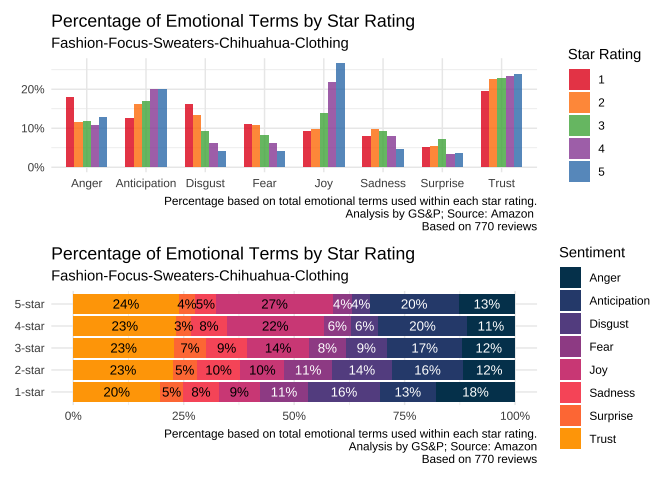
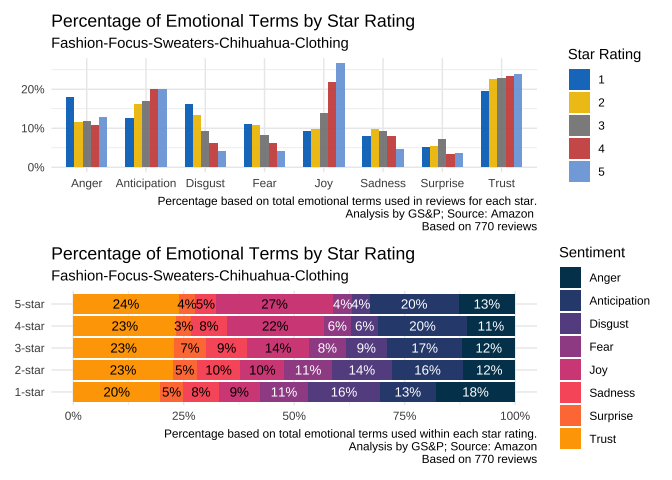
updating readme

Changed region(s): [[0.0938, 0.125, 0.7812, 0.375], [0.2188, 0.4062, 0.8125, 0.4375], [0.8438, 0.125, 0.875, 0.4062]]

diff --git a/README.md b/README.md
@@ -46,16 +46,16 @@ data <- amzn_get_reviews(url, get_images = "false") # either "true" or "false" f
 sample_n(data, 6)[,1:4] # dropping the link
 ```
 
-    #>         date stars                                         headline
-    #> 1 2022-01-03     5                                         Adorable
-    #> 2 2022-01-09     5                                         To small
-    #> 3 2022-01-30     1 Runs very small. Too small for my 18 pound puppy
-    #> 4 2021-01-29     5                So cute and cozy and fits perfect
-    #>                                                                                                                                                                                                                                                                                                          text
-    #> 1                                                                                                                                                                                                                 Adorable. Affordable. Fits perfectly. Soft, stretchy, comfy. Arrived in less than two days!
-    #> 2 The media could not be loaded.                                                                           Thought it would be a perfect size my yorkie is about 5 pounds and i got him a small but fursure needed to get a medium. But overall the sweater is really nice and good material and warm for him
-    #> 3                                                                                                                                                                                                                                                               Small & not very cozy fabric for a sweatshirt
-    #> 4                                                                                                                    Darling little sweater for my little 10lb dog. I love the hood on it. The neck is a tiny bit small but she loves it, she's warm and its a great fit. I ordered size med for my 10lb pup.
+    #>         date stars                                              headline
+    #> 1 2021-12-13     1 Not true to size it is very big way to big for my pup
+    #> 2 2020-10-24     2                                                Hoodie
+    #> 3 2022-04-17     1            Came stained and with dog hair all over it
+    #> 4 2022-01-12     1                                      Not true to size
+    #>                                                                                                                                                                                                                                                                        text
+    #> 1                                                                                                                                                                                                                                           Extremely huge sizing is wrong.
+    #> 2                                                                                                                                                    It gets those little balls one it it looks old (like a few yrs )and I have only have had it no more then 4 to 6 weeks.
+    #> 3 Ordered this dog sweatshirt and opened it up to find stains on one side and someone else’s dog or cat hair all over the other side (hopefully the animal did not have fleas!) . Super disappointed as this was supposed to be new. I would not recommend purchasing this.
+    #> 4                                                                                                                                                                                                                          I got a large and it’s still to small for my sog
 
 ### Most frequent terms
 
@@ -171,16 +171,32 @@ reviews compared to 1 star?
 
 ``` r
 library(patchwork)
-emotion <- text_to_emotion(sample_reviews)
+emotion_star <- text_to_emotion(sample_reviews, "stars")
 #> Joining, by = "word"
 #> Joining, by = "word"
 # emotion$data
-p1 <-emotion$graph1
-p2 <- emotion$graph2
+p1 <-emotion_star$graph1
+p2 <- emotion_star$graph2
 p1 / p2
 ```
 
 <img src="man/figures/README-emotion-1.png" width="80%" style="display: block; margin: auto;" />
+
+The emotional valence of reviews can also be split out by the year of
+the review.
+
+``` r
+library(patchwork)
+emotion_year <- text_to_emotion(sample_reviews, "year")
+#> Joining, by = "word"
+#> Joining, by = "word"
+# emotion$data
+p1 <-emotion_year$graph1
+p2 <- emotion_year$graph2
+p1 / p2
+```
+
+<img src="man/figures/README-emotion2-1.png" width="80%" style="display: block; margin: auto;" />
 
 ### Estimate the sentiment of the reviews
 
